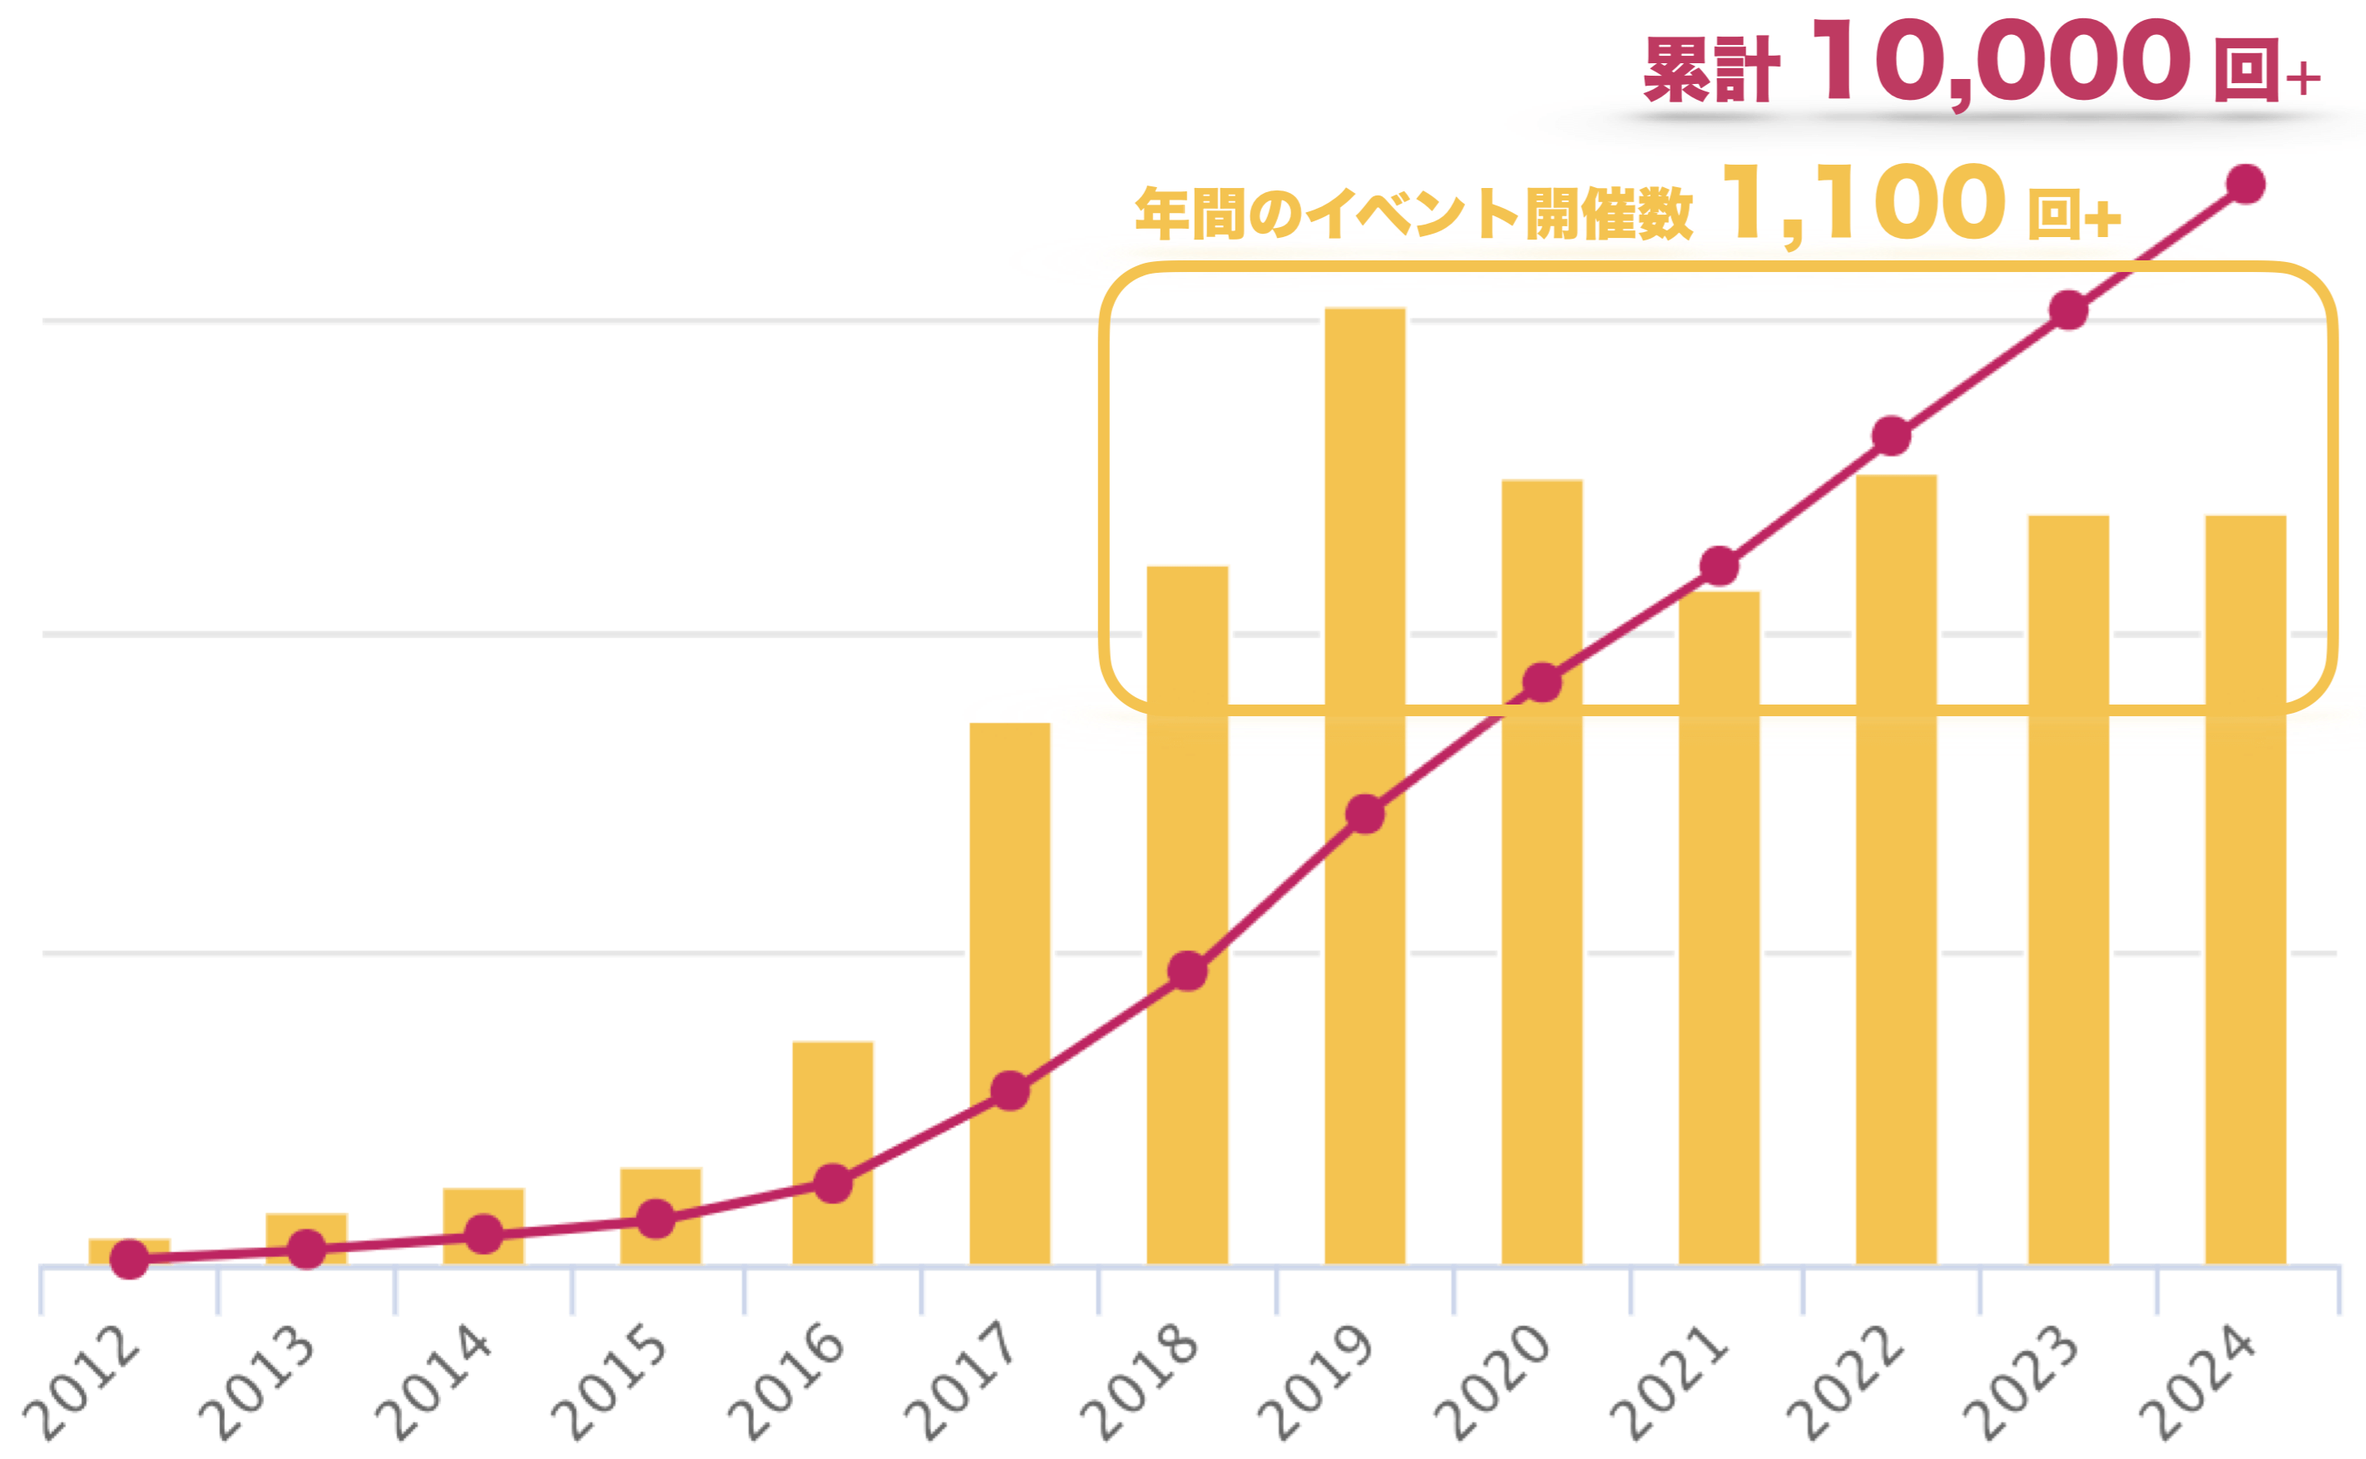
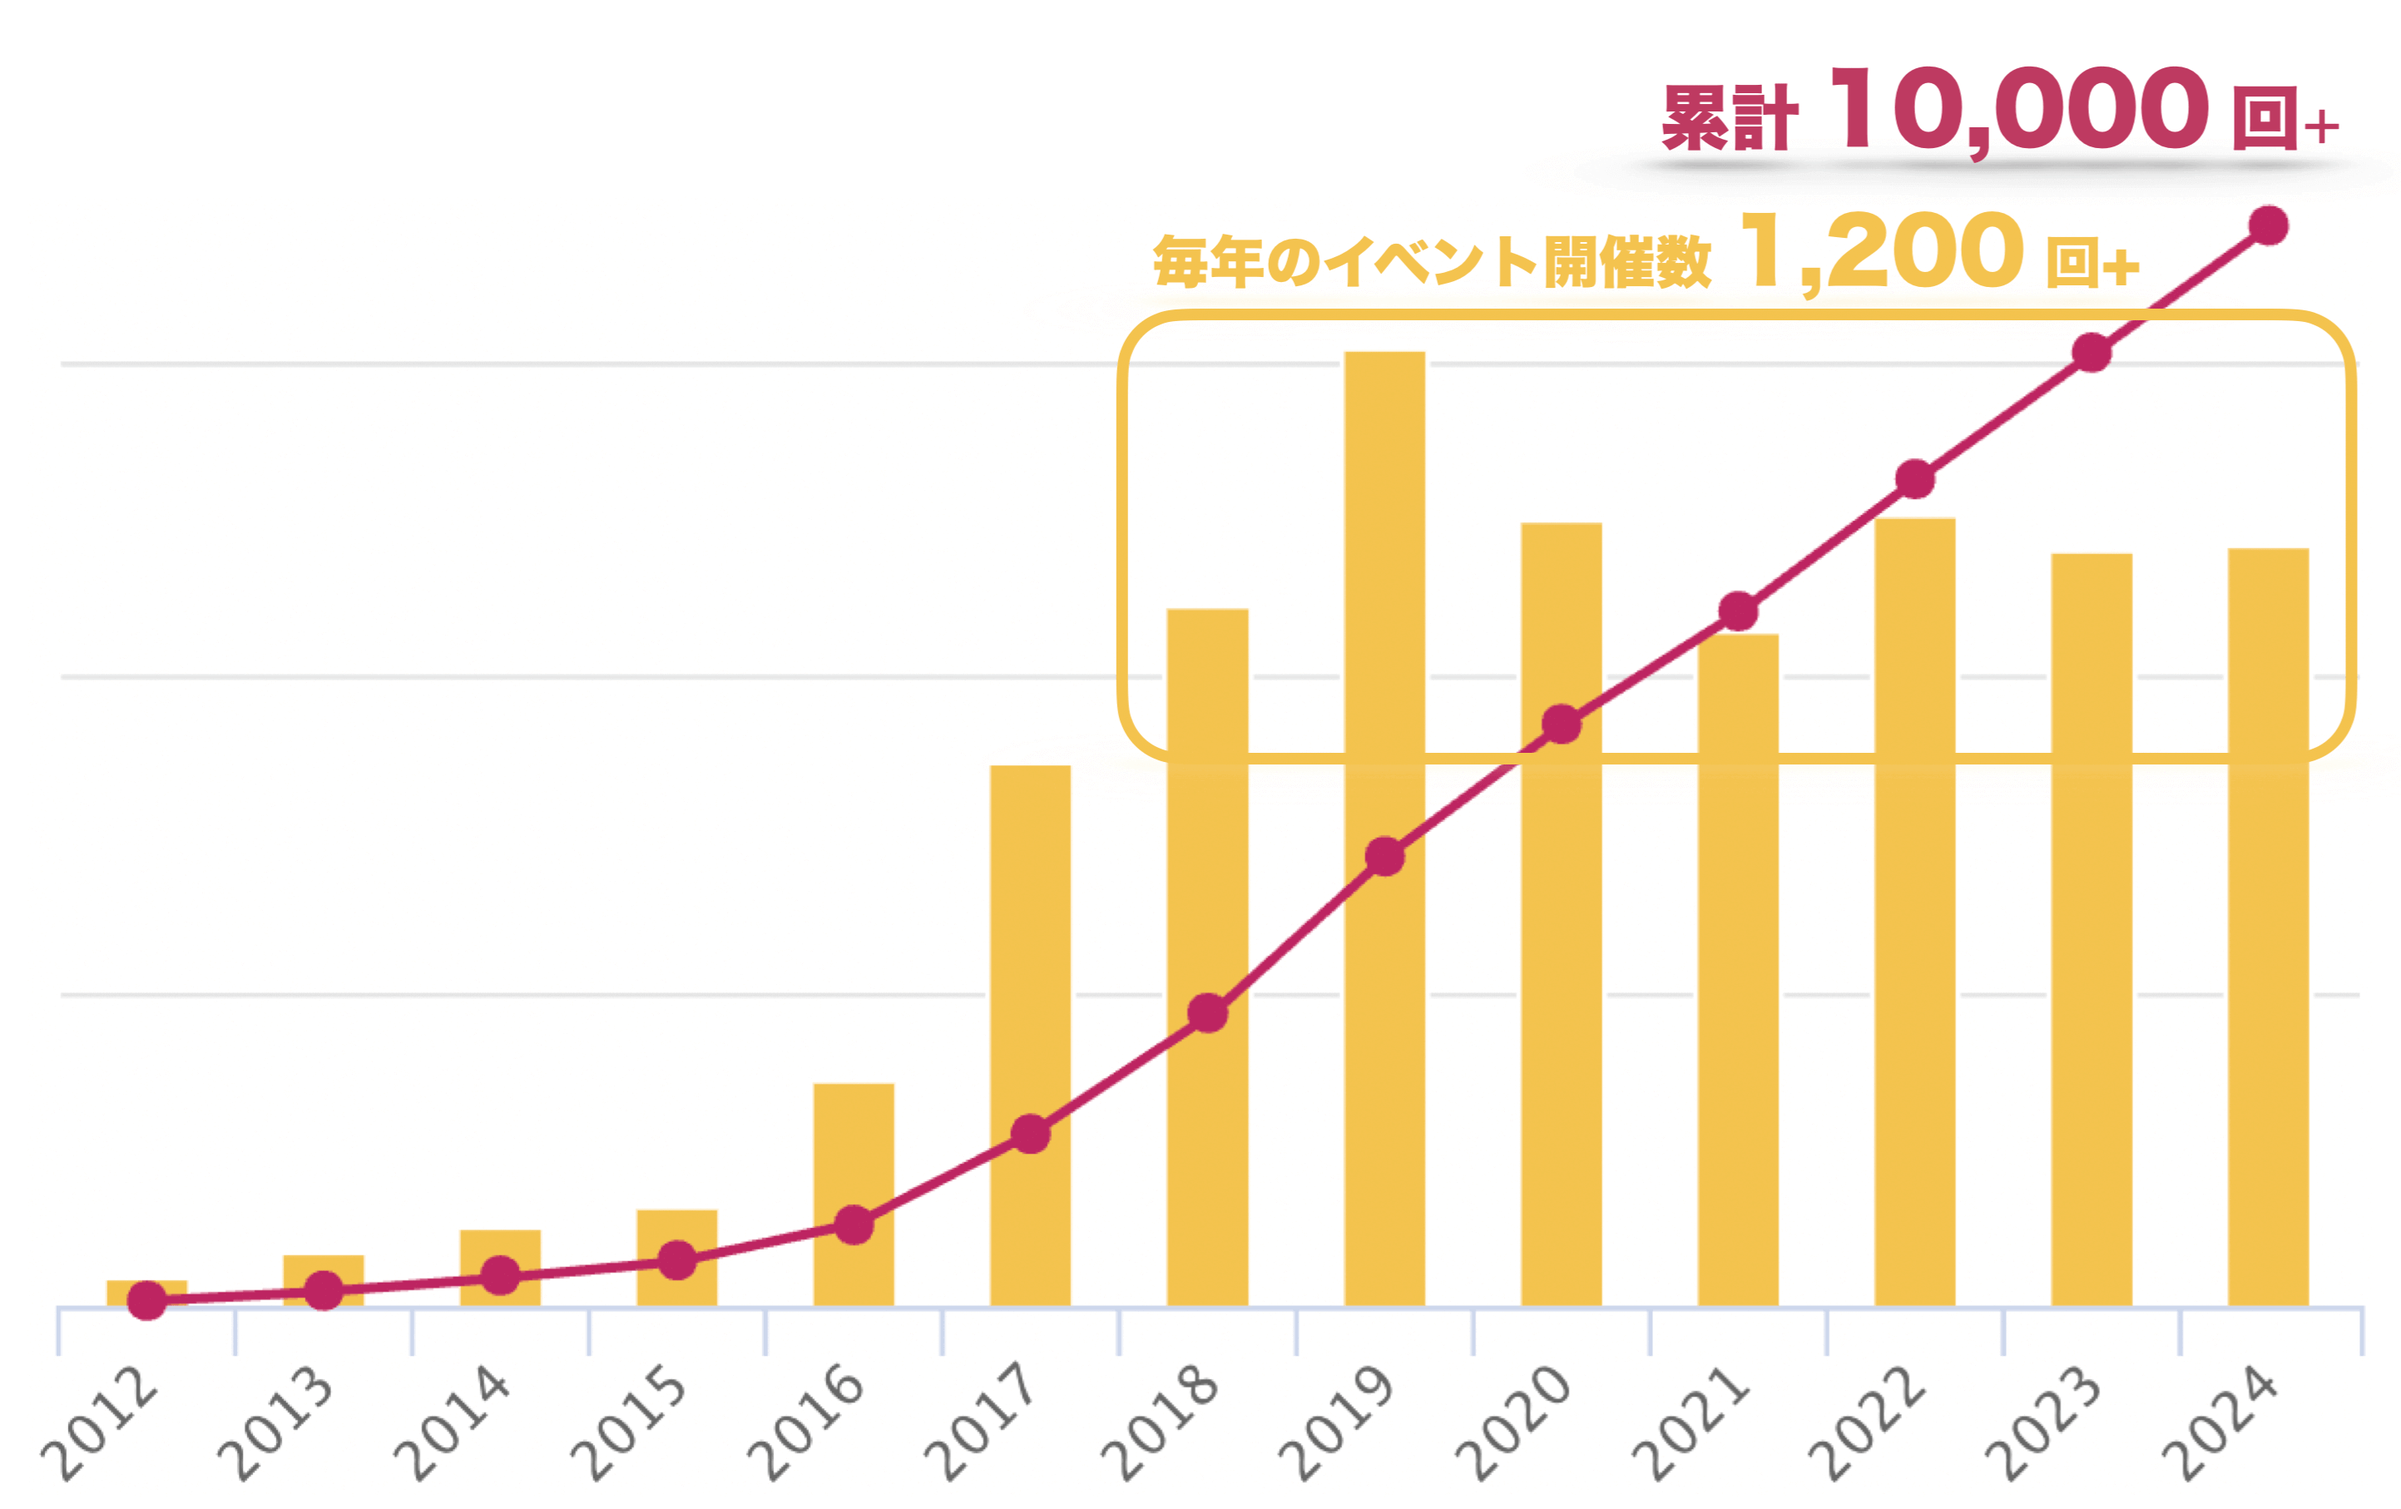
Refactor static values to be updated more easily in the future

diff --git a/app/controllers/docs_controller.rb b/app/controllers/docs_controller.rb
@@ -19,11 +19,11 @@ class DocsController < ApplicationController
 
     if @doc.content.include? "NUM_OF_"
       @doc.content.gsub! "{{ NUM_OF_JAPAN_DOJOS }}",   Dojo.active_dojos_count.to_s
-      @doc.content.gsub! "{{ NUM_OF_WORLD_DOJOS }}",   Dojo::NUM_OF_WORLD_DOJOS
-      @doc.content.gsub! "{{ NUM_OF_COUNTRIES }}",     Dojo::NUM_OF_COUNTRIES
+      @doc.content.gsub! "{{ NUM_OF_PARTNERSHIPS }}",  Dojo::NUM_OF_PARTNERSHIPS
       @doc.content.gsub! "{{ NUM_OF_ANNUAL_EVENTS }}", Dojo::NUM_OF_ANNUAL_EVENTS
       @doc.content.gsub! "{{ NUM_OF_ANNUAL_NINJAS }}", Dojo::NUM_OF_ANNUAL_NINJAS
-      @doc.content.gsub! "{{ NUM_OF_PARTNERSHIPS }}",  Dojo::NUM_OF_PARTNERSHIPS
+      @doc.content.gsub! "{{ NUM_OF_TOTAL_EVENTS }}",  Dojo::NUM_OF_TOTAL_EVENTS
+      @doc.content.gsub! "{{ NUM_OF_TOTAL_NINJAS }}",  Dojo::NUM_OF_TOTAL_NINJAS
     end
 
     @content    = Kramdown::Document.new(@doc.content, input: 'GFM').to_html

diff --git a/app/helpers/application_helper.rb b/app/helpers/application_helper.rb
@@ -24,7 +24,6 @@ module ApplicationHelper
 
   def full_description(description)
     # Default description
-    # Outdated: "CoderDojo は子どものためのプログラミング道場です。全国に#{Dojo.active_dojos_count}ヶ所以上あり、世界では#{Dojo::NUM_OF_COUNTRIES}ヶ国・#{Dojo::NUM_OF_WORLD_DOJOS}ヶ所で開催されています。"
     if description.empty?
       "CoderDojo は子どものためのプログラミング道場です。全国に#{Dojo.active_dojos_count}ヶ所以上あり、毎年#{Dojo::NUM_OF_ANNUAL_EVENTS}回以上のイベントが日本各地で開催されています。"
     else

diff --git a/app/models/dojo.rb b/app/models/dojo.rb
@@ -1,9 +1,9 @@
 class Dojo < ApplicationRecord
-  NUM_OF_COUNTRIES     = "100"
-  NUM_OF_WORLD_DOJOS   = "2,000"
   NUM_OF_PARTNERSHIPS  = "25"
   NUM_OF_ANNUAL_EVENTS = "1,200"
   NUM_OF_ANNUAL_NINJAS = "7,000"
+  NUM_OF_TOTAL_EVENTS  = "10,000"
+  NUM_OF_TOTAL_NINJAS  = "62,000"
   DOJO_INFO_YAML_PATH = Rails.root.join('db', 'dojos.yaml')
 
   belongs_to :prefecture

diff --git a/db/docs/about-partnership.md b/db/docs/about-partnership.md
@@ -98,19 +98,19 @@ CoderDojo コミュニティは日本でも2012年から少しずつ広がって
 </div>
 
 
-CoderDojo は全国各地で毎年{{ NUM_OF_ANNUAL_EVENTS }}回以上、累計10,000回以上のイベントが開催されています。
+CoderDojo は全国各地で毎年{{ NUM_OF_ANNUAL_EVENTS }}回以上、累計{{ NUM_OF_TOTAL_EVENTS }}回以上のイベントが開催されています。
 
 <div style="margin: 40px auto 40px;">
   <img class='lazyload' loading='lazy' alt="図: Dojo 開催回数の年次推移"
-       style='margin-bottom: 10px;' src='/spinner.svg' data-src="/stats-2.png" />
+       style='margin-bottom: 10px;' src='/spinner.svg' data-src="/stats-2.webp" />
   <center>図: Dojo 開催回数の年次推移</center>
 </div>
 
-年間では延べ{{ NUM_OF_ANNUAL_NINJAS }}人以上の子ども達が参加し、これまでの累計の延べ参加者数は61,000人になります。
+年間では延べ{{ NUM_OF_ANNUAL_NINJAS }}人以上の子ども達が参加し、これまでの累計の延べ参加者数は{{ NUM_OF_TOTAL_NINJAS }}人になります。
 
 <div style="margin: 40px auto 40px;">
   <img class='lazyload' loading='lazy' alt="図: Dojo 参加者数の年次推移"
-       style='margin-bottom: 10px;' src='/spinner.svg' data-src="/stats-3.png" />
+       style='margin-bottom: 10px;' src='/spinner.svg' data-src="/stats-3.webp" />
   <center>図: Dojo 参加者数の年次推移</center>
 </div>
 
